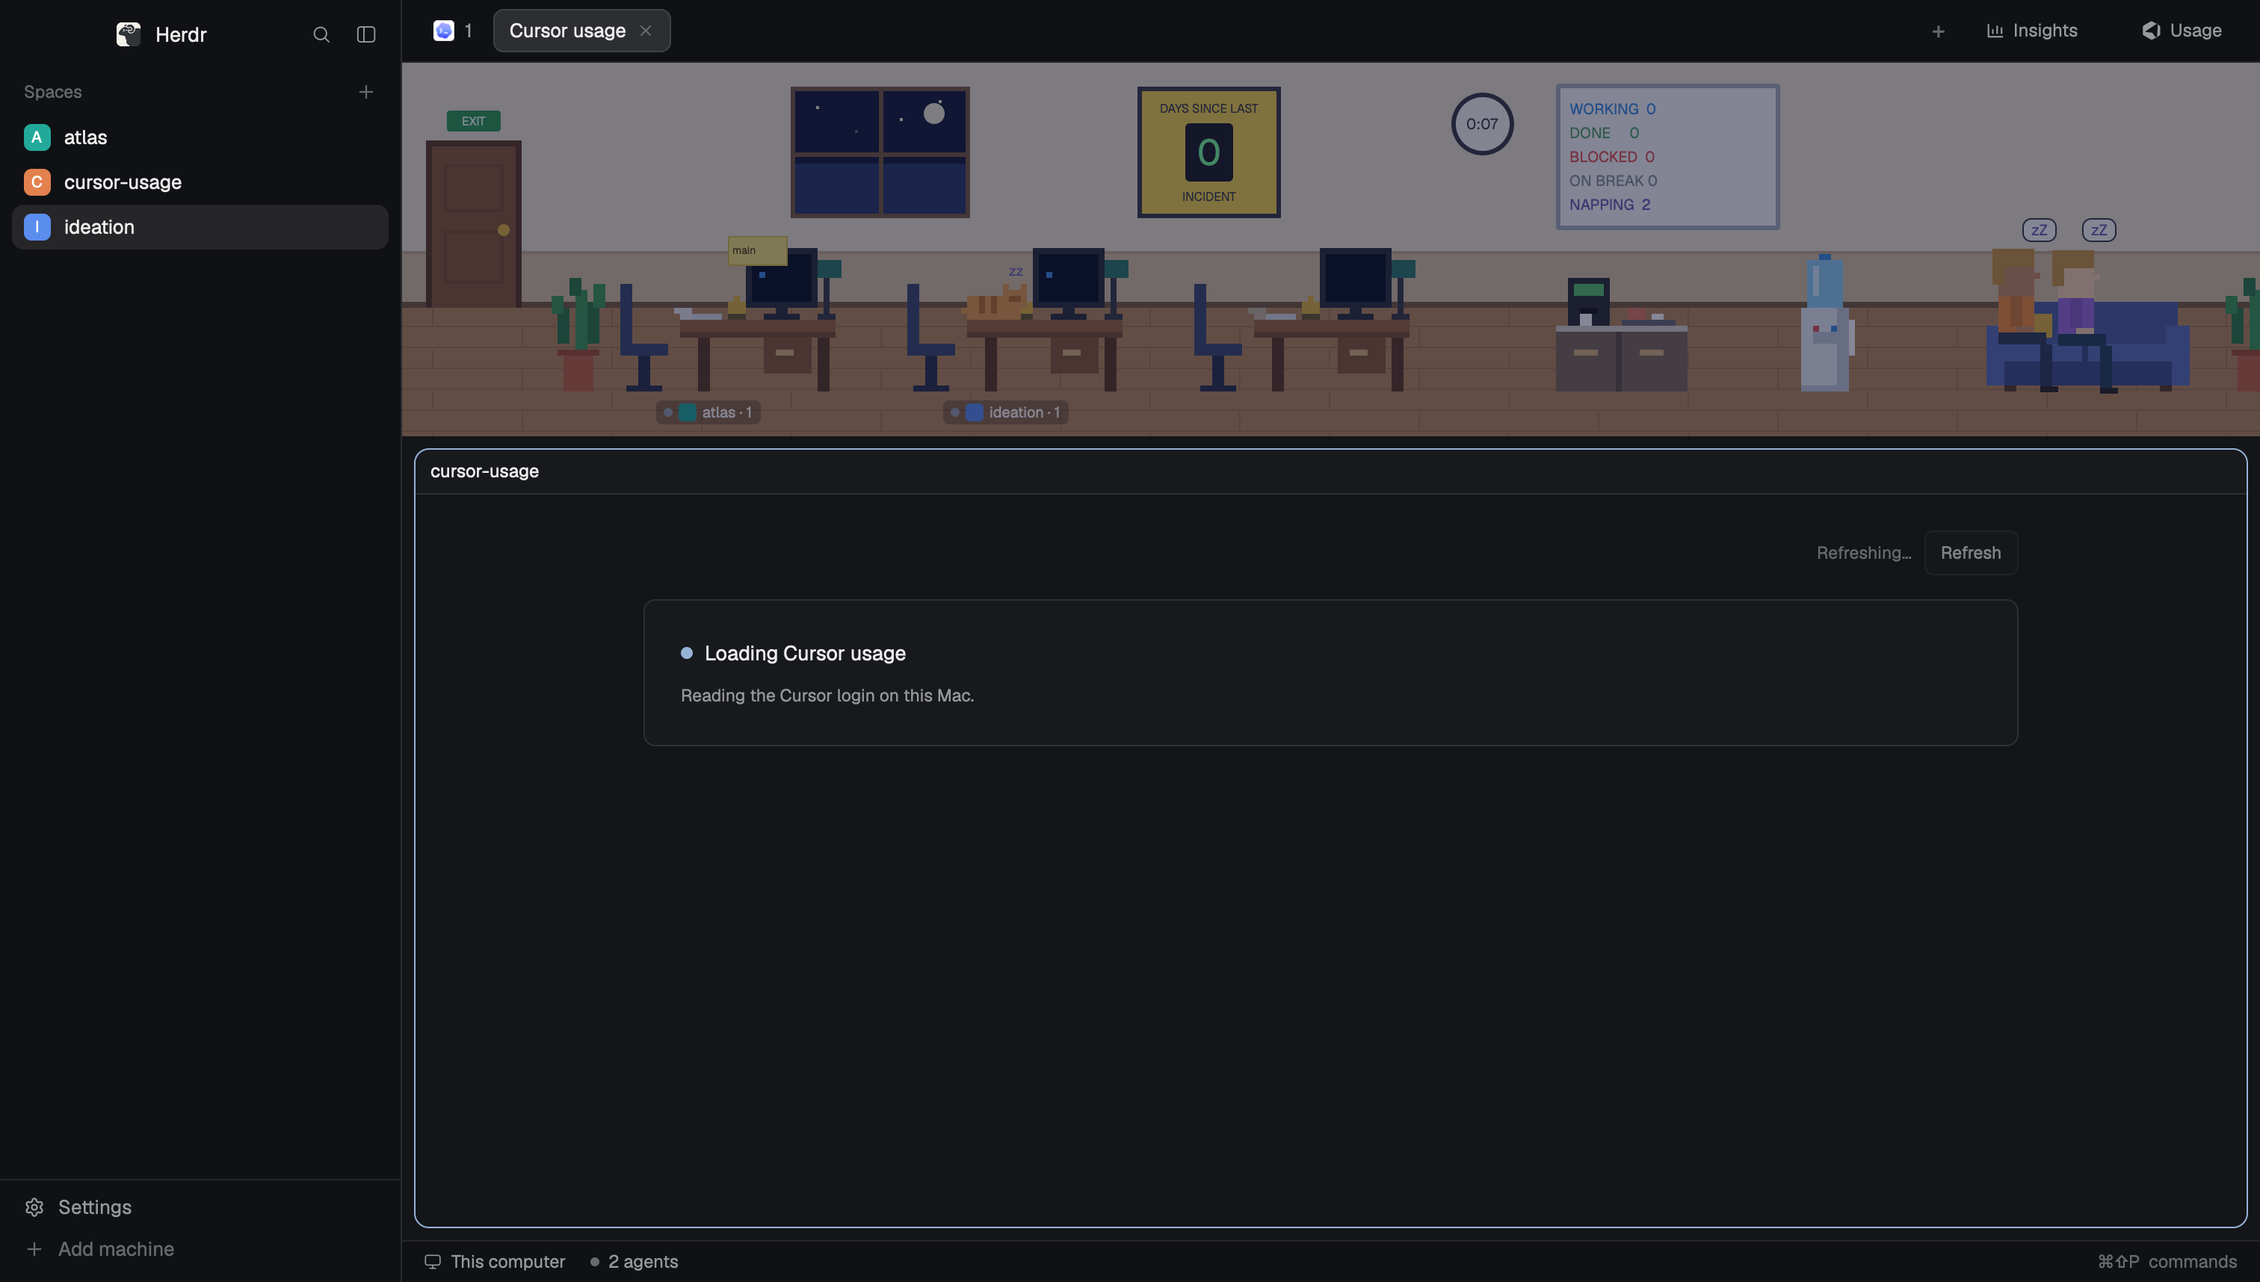
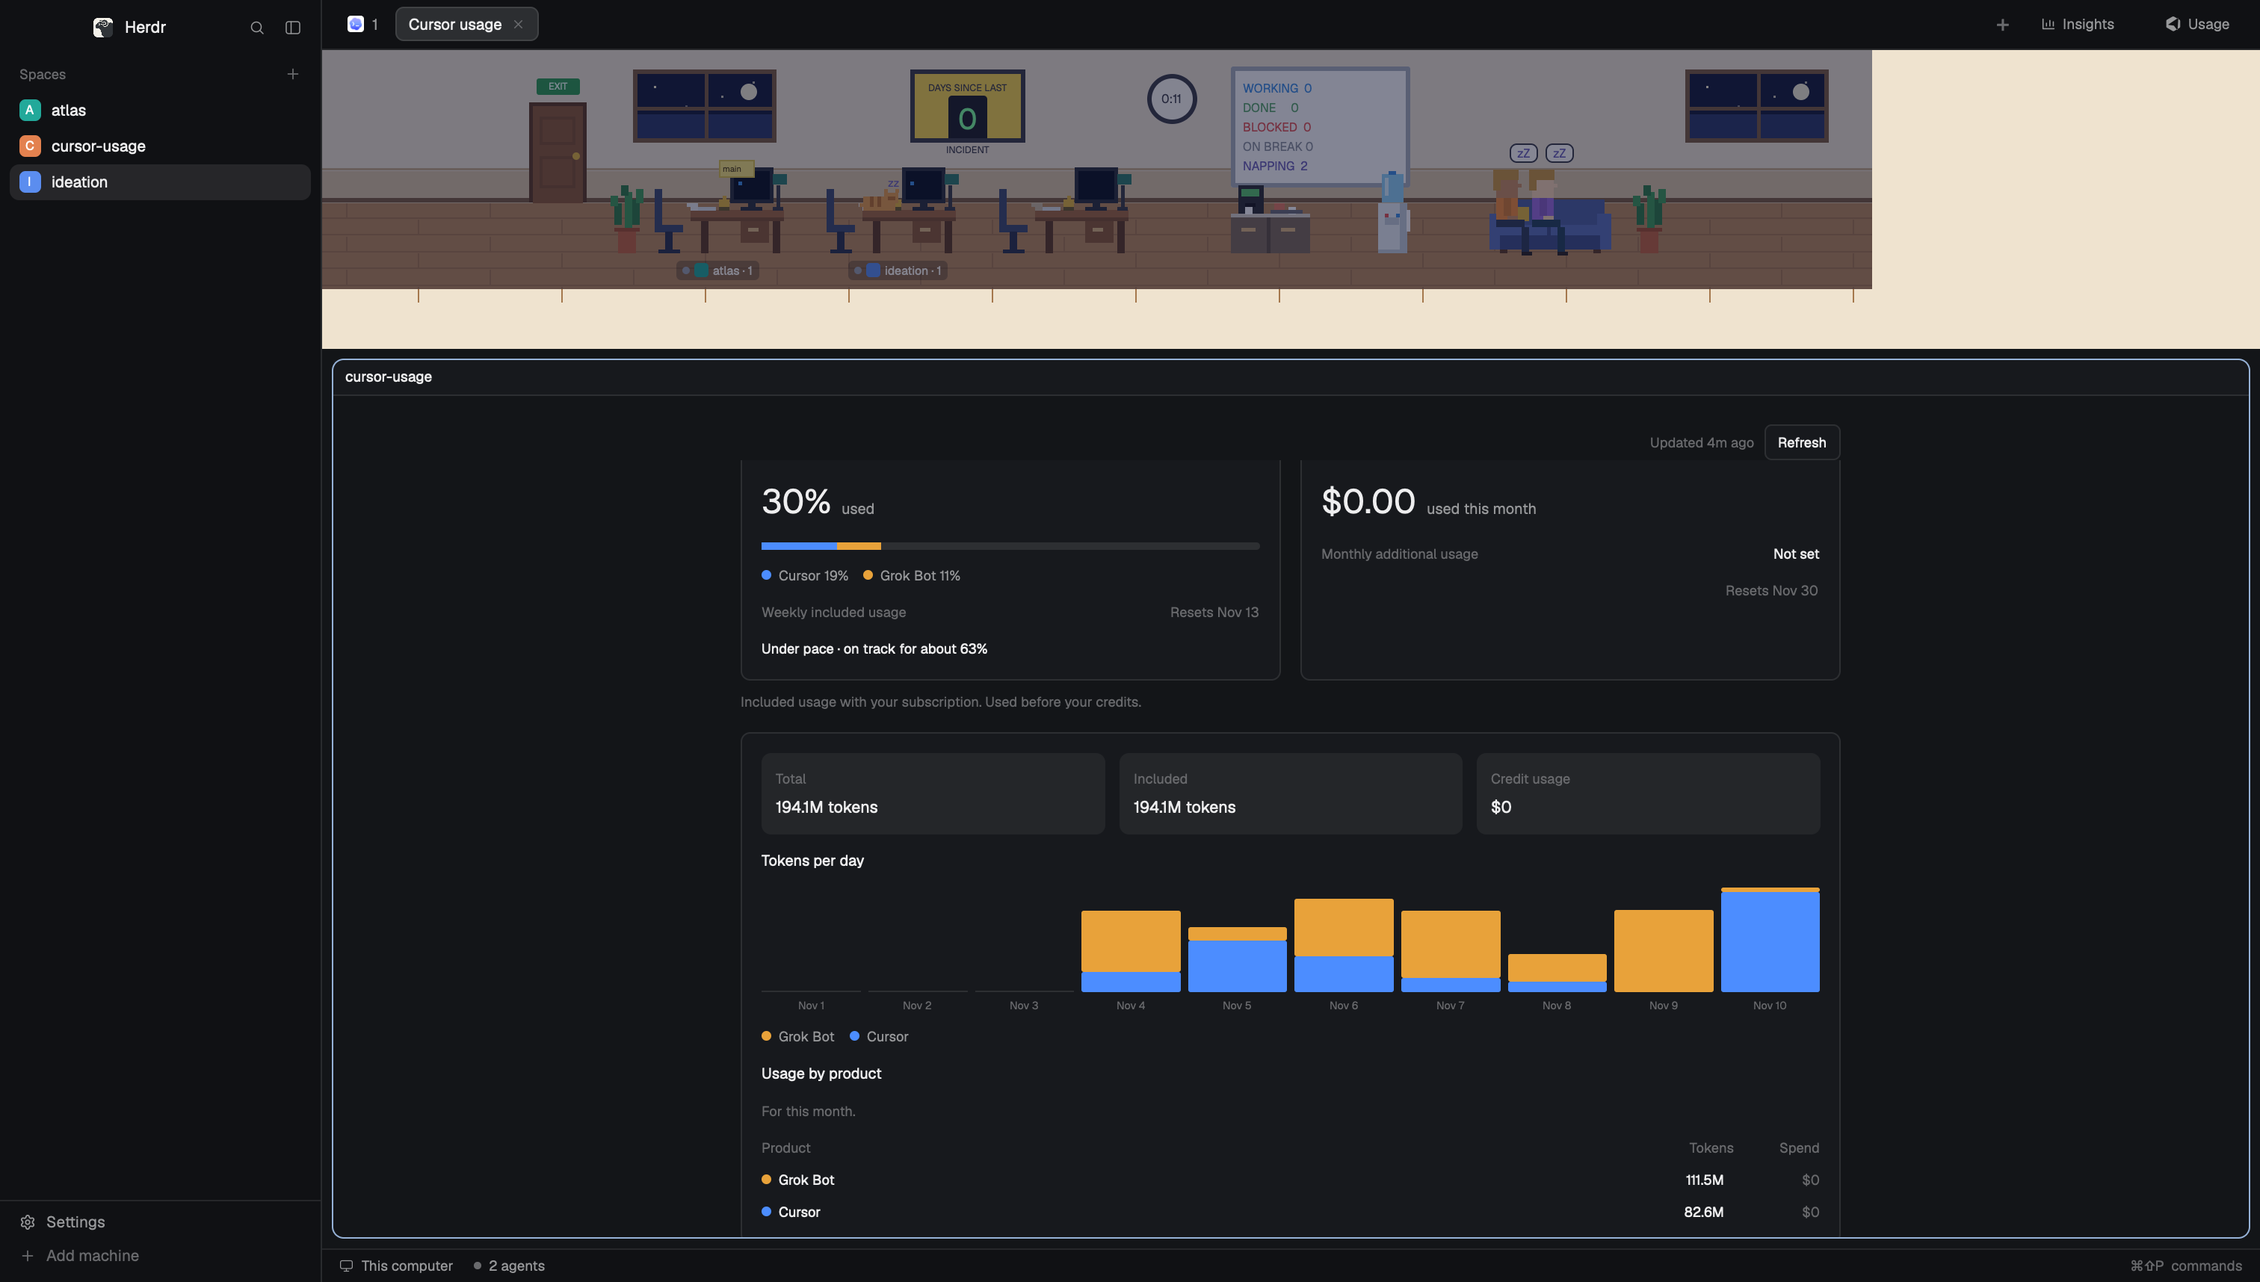
Describe the dashboard another agent can rebuild.
The recipe matches the weekly cards, token chart, and line edits, and the preview is that screen.

diff --git a/RECIPE.md b/RECIPE.md
@@ -1,53 +1,70 @@
 # Cursor usage
 
-A toolbar button labeled Cursor usage opens one dashboard tab. The page is a narrow column of cards on the theme canvas: how much of the Cursor allowance is used, when it resets, and whether the current pace holds.
+A **Usage** button in the tab strip opens one dashboard of the Cursor quota already signed in on this Mac: the weekly included percent split by product, this month's balance, tokens per day, and a year of AI line edits. This is a piece you add to the current layout, not a whole window.
 
 ![Cursor usage](preview.png)
 
+This file is the brief: enough to build Cursor usage from an empty folder. The files next to it are one build of it. If they don't work on your Herdr, or you want it different, build it again from here.
+
 ## What you see
 
-- **Toolbar button** (128px, in the tab strip, chrome background, 12px muted label "Cursor usage"). Hover uses the theme hover color.
-- **Dashboard** (scrollable canvas, column max width 720, padding 24, or 16 when narrower than 620). Cards are surface, 1px border, radius 8, padding 16. Spacing is 4, 8, 12, 16, 24. Every color comes from the Herdr theme.
-- **Header.** "Cursor usage" at 20px semibold. On the right, dim status text ("Updated just now", "Refreshing…", or the error in the blocked color) and an outline Refresh button, 30px tall, radius 6.
-- **Hero card.** Uppercase 9.5px label: `INCLUDED THIS WEEK`, `INCLUDED THIS MONTH`, `INCLUDED USAGE`, `SPEND THIS CYCLE`, `ON-DEMAND USAGE`, or `INCLUDED REQUESTS`. The value is 28px: `20%`, `$82`, or `120 / 500`. Under it, one 12.5px muted sentence such as `20% used · 80% left · $16 left`. A 6px rounded track in the border color, filled with foreground. At a projected 80% or above, the value and the fill use the blocked color.
-- **Reset and pace,** inside the hero, 11.5px. Reset is dim (`Resets Tue, Nov 18, 4:00 PM · 3d 12h`). The pace sentence is foreground, or blocked when this pace hits the limit before reset.
-- **Stat card.** Cells labeled `LEFT`, `PACE`, and `ROOM`. Empty cells are omitted. Pace is `under`, `on pace`, `ahead`, or `used up`. Room is `23% per day` (or per hour, or per minute).
-- **Detail card,** only when there is something to show. Cells for `AUTO`, `API`, and `TOKENS`. A dim line under them: `Last commit 80% AI-generated`.
-- **Activity card.** Label `ACTIVITY · 14 DAYS`. Up to fourteen bars, 4px wide, gap 4, height scaled to that window, drawn in foreground from the bottom of a 48px row.
-- **Account,** dim 11.5px under the cards: `Premium · ada@example.com · On this Mac since Jan 2026`.
-- **Empty and error.** No data yet: one card, "Loading Cursor usage" or "Cursor usage is unavailable", with a primary Retry button on the error.
+- **Toolbar button.** An 88px block on the right of the tab strip, chrome background, 1px bottom border in the border color. Inside it, a 26px row, 8px horizontal padding, 5px gap, radius 6: the Cursor mark at 15px (a cube with the pointer cut out, tinted with the text color) and the word **Usage** at 12px in the muted color. Hover uses the theme hover background and the foreground text.
+- **Dashboard.** The pane is the theme canvas. One column, max width 920, padding 24, or 16 when the pane is narrower than 620. Cards are surface, 1px border, radius 8, padding 16, with 12px inside a card and 16px between cards. Text is foreground; secondary lines are dim or muted. There is no page title.
+- **Header,** right-aligned above the cards. Dim 11.5px status: `Updated just now`, `Updated 4m ago`, `Refreshing…`, or the error in the blocked color. An outline **Refresh** button, 30px tall, radius 6, 11.5px medium.
+- **Weekly row,** when Cursor returns weekly included usage. Two cards side by side, gap 16, each at least 280px wide; they wrap when the column is narrow.
+  - **Included.** The plan name at 11.5px dim (`Premium`). The percent at 28px semibold (`30%`) with `used` at 12.5px muted. A 6px rounded track in the border color, filled left to right by product: Cursor `#4c8dff`, Grok Bot and Grok `#e8a23a`, API and Other `#8b9bb4`. An 8px dot and `Cursor 19%` for each product, 11.5px muted. Under that, `Weekly included usage` on the left and `Resets Nov 13` on the right, both 11.5px dim. The pace sentence is 11.5px foreground, or the blocked color when this pace runs out before reset.
+  - **Balance.** `Account balance` at 11.5px dim. `$0.00` at 28px semibold with `used this month` at 12.5px muted. `Monthly additional usage` on the left and `Not set` (or a dollar limit) on the right. `Resets Nov 30` at the right, 11.5px dim.
+- **Footnote,** 11.5px dim, under that row: `Included usage with your subscription. Used before your credits.`
+- **Tokens,** when the month has daily points. Three tiles on the raised color, radius 8, padding 12, min width 120: `Total` / `194.1M tokens`, `Included` / `194.1M tokens`, `Credit usage` / `$0`. Then `Tokens per day` at 12.5px medium. A row of columns, 88px tall, stacked with Grok Bot on top of Cursor; a day with nothing is a 1px border line. Day labels are 9px (`Nov 4`). Every day is labeled when the month so far has 14 days or fewer; otherwise the 1st, every 5th, and the last day. A product legend, then `Usage by product` and `For this month.` A table: `Product`, `Tokens` (88px, right), `Spend` (72px, right), most tokens first.
+- **Line edits,** when Cursor returns daily metrics, or one local day of suggested lines if it does not. The title is `AI line edits`, `Tab completions`, or `Agent lines of code`, 11.5px dim, with the total at 28px semibold. On the right, `All` / `Tab` / `Agent`: 22px tall, radius 6, the selected one on the card color with a border, the others on the raised color. A year of 10px squares, radius 2, 3px apart, Sunday-start UTC weeks ending today. Empty days use the border color. Days with edits use `#1a3f66`, `#245b96`, `#3b82f6`, `#8eb6ff` from least to most. Month names sit above the first week of that month, 9px dim. Four cells: `MOST ACTIVE MONTH`, `MOST ACTIVE DAY`, `LONGEST STREAK`, `CURRENT STREAK`. A `Less` / `More` scale. When a recent commit has a percent, a dim line: `Last commit 80% AI-generated`.
+- **Other plans.** With no weekly included usage, one hero card instead of the weekly row. An uppercase 9.5px label: `INCLUDED THIS WEEK`, `INCLUDED THIS MONTH`, `INCLUDED USAGE`, `SPEND THIS CYCLE`, `ON-DEMAND USAGE`, or `INCLUDED REQUESTS`. The value is 28px (`20%`, `$82`, or `120 / 500`). An 8px track, filled in foreground, with a 1px tick at how far the cycle has elapsed. Dim reset text (`Resets Tue, Nov 18, 4:00 PM · 3d 12h · 23% per day still open`) and the pace sentence. The plan, email, and `on this Mac since Jan 2026` sit on the right of the label, 11.5px dim, truncated. A second card shows `AUTO`, `API`, and `TOKENS` when those numbers exist.
+- **Empty and error.** No data yet: one card, an 8px accent dot, `Loading Cursor usage`, and `Reading the Cursor login on this Mac.` A failure with nothing to show uses the blocked color on the border and dot, title `Cursor usage is unavailable`, the error as the body, and a primary **Retry** button.
 
 ## How it behaves
 
-- The toolbar click focuses an existing Cursor usage pane in the active space, or opens `tab.new` with name "Cursor usage" and mod `cursor-usage`.
-- The dashboard reads on show, then every 5 minutes, and when Refresh or Retry is clicked. A read already in flight is left alone.
-- One meter, chosen the same way as the cursor-usage menu bar:
-  - Included-usage plans: `planUsage.totalPercentUsed`, else `autoPercentUsed`.
-  - Team or usage-based spend: dollars for the signed-in email from `get-team-spend`.
+- The toolbar click focuses a Cursor usage pane already open in the active space. If another pane on that tab is zoomed, it zooms that one back first. Otherwise it runs `tab.new` with name `Cursor usage` and mod `cursor-usage`.
+- The dashboard reads on show, then every 5 minutes, and when Refresh or Retry is clicked. A read already in flight is left alone. The toolbar button does not read.
+- Hovering the button changes its background. Hovering a token column or a line-edit square shows a tooltip (`Nov 6 · Grok Bot 12.4M · Cursor 8.1M`, or `Nov 6 · 318 lines`, or `Nov 2 · No tokens`). All, Tab, and Agent only change which series the heatmap counts. Nothing else moves. There are no agent-status colors.
+- One meter, in this order:
+  - Weekly included usage, when `usage-status` says the week is metered and has a budget. The headline percent is the used cents over the budget, floored. Anything above 0 and below 1 shows as `1`. Product percents are that integer split by each product's cents, largest remainder first, then listed largest percent first.
+  - Otherwise included usage from the current period (`totalPercentUsed`, else `autoPercentUsed`).
+  - Otherwise team or usage-based spend for the signed-in email.
   - Otherwise included requests from `GET /api/usage` (`gpt-4` is the aggregate).
-- The bar width is the percent used now. The blocked color uses the projected end-of-cycle percent once 10% of the window has passed; before that it uses the percent used now.
-- A failed refresh keeps the last cards and puts the message in the header. The first failure, with nothing to show, replaces the hero with the error card.
-- No agent status colors. The mod does not depend on an agent running.
+- Pace is the only number the mod calculates. It waits until 10% of the window has passed. Under 0.95 is `Under pace · on track for about 63%`. Under 1.2 is `On pace`. At 1.2 or above is `Ahead of pace · about 2d before reset`, in the blocked color. `Used up` is the blocked color too. A high projection by itself does not change the color.
+- A failed refresh keeps the last cards and puts the message beside Refresh. The first failure, with nothing to show, replaces the page with the error card.
+- Missing sign-in says `No access token — sign in to Cursor`. A denied Keychain prompt says `Keychain access to Cursor Safe Storage was denied — allow it, then Refresh`. A missing Cursor database says `Cursor DB not found`.
 
 ## Built from
 
-- One mod, `mods/cursor-usage`. `mod.json` is `{ "place": "none", "title": "Cursor usage" }`. The same mod draws the toolbar when `props.mode` is `"toolbar"`.
-- `herdr`: `appHome`, `exec`, `panes`, `props`, `run`, `settings`, `spaces`, `theme`. Commands: `tab.new`, `pane.focus`, `pane.zoom`.
-- Program: `python3 mods/cursor-usage/cursor_usage.py`, timeout 90 seconds. If `python3` cannot be started, the same script is run through the login shell. The script runs `sqlite3` (via Python), `security`, and `curl`.
-- Install: `python3 scripts/install.py` copies the mod and clones the current layout. `python3 scripts/uninstall.py` switches back and deletes that clone.
+- **One mod**, `mods/cursor-usage/`. `mod.json` is `{ "place": "none", "title": "Cursor usage" }`. The same view draws the toolbar when `props.mode` is `"toolbar"`, and returns before any fetch. There is no `layouts/` folder and no `keys.json`.
+- **Files:** `main.js` (the view), `ui.js` (the card, button, and type scale), `cursor.svg` (the mark, `fill-rule="evenodd"` so the pointer is a hole), `cursor_usage.py` (the collector).
+- **To show the button,** clone the layout that is on screen and add one block beside its single `tabs` mod. If that tabs block is not already in a row, turn it into a non-resizable row and keep the old tabs content in a weight-1 child:
+
+  ```json
+  { "id": "cursor-usage-toolbar-button", "type": "block", "size": { "px": 88 },
+    "content": { "mod": "cursor-usage", "props": { "mode": "toolbar" } } }
+  ```
+
+  `python3 scripts/install.py` does that on a clone and records the file hashes. `python3 scripts/uninstall.py` switches back and deletes the clone only when that clone was not edited afterward.
+- **`herdr`:** `appHome`, `exec`, `panes`, `props`, `run`, `settings`, `spaces`, `theme`. Commands: `tab.new`, `pane.focus`, `pane.zoom`. Colors come from `theme()`. The column padding uses `settings().zoom`.
+- **Program:** `python3 mods/cursor-usage/cursor_usage.py`, timeout 90 seconds. If `python3` cannot be started, the same script runs through the login shell. The script uses Python's `sqlite3`, `security`, and `curl`. It prints one JSON object and exits 0 even on a Cursor error.
+- **What it reads.** Cursor's `state.vscdb` ItemTable and, when the token is sealed, the Keychain item **Cursor Safe Storage**. It then calls only `https://www.cursor.com`: `GET /api/usage`, `GET /api/auth/stripe`, `GET /api/dashboard/v2/usage-status?scope=user`, and POST `get-current-period-usage`, `get-plan-info`, `get-team-spend`, `get-user-analytics`, and `v2/query-daily-usage`. The cookie jar is mode `0600` and is deleted when the request finishes. The token is not printed.
+- **Line edits.** `all` and `agent` are accepted lines added plus deleted. `tab` is accepted completions, a count, not lines. The heatmap colors only days the API returned. If analytics is empty, one local fallback uses `tabSuggestedLines` and `composerSuggestedLines` from `aiCodeTracking.dailyStats.v1.5.YYYY-MM-DD`. The token chart is the dashboard API, not the local database.
 
 ## Watch out
 
-- macOS only. The script expects Cursor's `state.vscdb` and the Keychain item **Cursor Safe Storage**. The first live fetch can prompt. Allowing it always lets `/usr/bin/security` read that item later.
-- The mod calls `https://www.cursor.com`, runs programs, and reads files outside its folder (the Cursor database and the Keychain). It does not print the token. The cookie jar is mode `0600` and is deleted when the request finishes.
-- `"place": "none"` means Herdr will not show it until a layout adds the toolbar block. Do not edit a layout owned by another installer. Insights records a hash of `office-insights.json`; changing that file makes Insights uninstall refuse it.
-- Shipped layouts are read-only. The installer clones the layout that is on screen and edits only the clone.
-- `herdr-app check` renders the loading card. It does not call Cursor.
+- macOS only. The first live fetch can prompt for Keychain access. Allowing it always lets `/usr/bin/security` read **Cursor Safe Storage** later. The mod reaches the network, runs programs, and reads files outside its folder. Say so before adding it.
+- `"place": "none"` means Herdr will not show it until a layout adds the toolbar block. Shipped layouts are read-only. Do not edit a layout another installer owns: Insights records a hash of `office-insights.json`, and changing that file makes its uninstall refuse.
+- Do not invent a product split when weekly included usage is absent. Fall back to the single hero. Do not draw empty days the API did not return, except the token chart, which fills each UTC day from the month's start through today.
+- The email is on the report and on the fallback hero. The weekly cards do not print it.
+- `herdr-app check` renders the loading card. It does not call Cursor or open the Keychain. A check writes `jsconfig.json` and `gpui-kit.d.ts` into the mod folder; those are generated and are not part of the mod.
+- The token columns are a vertical stack, Grok Bot first. Absolute left and right did not stretch the segments. Chaining `.children()` after `.child()` replaces the earlier children, so build one children array.
+- The SVG hole depends on `fill-rule="evenodd"`. A solid cube is not the Cursor mark.
 
 ## Done when
 
 - `python3 -m unittest tests/cursor_usage_test.py tests/layout_test.py` passes.
 - `herdr-app check mods/cursor-usage` passes.
-- `python3 scripts/install.py` leaves the previous layout file byte-for-byte unchanged and shows the button on a new layout.
-- Opening Cursor usage shows the hero card, and Refresh runs again.
+- `python3 scripts/install.py` leaves the previous layout file byte-for-byte unchanged, shows **Usage** with the Cursor mark, and opens a dashboard of this Mac's own numbers.
+- Refresh runs again. A missing token shows `No access token — sign in to Cursor` and Retry.
 - `python3 scripts/uninstall.py` returns to the previous layout and removes `mods/cursor-usage`. Installing a second time works.

diff --git a/README.md b/README.md
@@ -1,6 +1,6 @@
 # Cursor usage
 
-A [Herdr](https://herdr.dev) mod that shows the Cursor quota already signed in on this Mac. A **Cursor usage** button in the tab strip opens one dashboard: the included percentage, request quota, or on-demand spend, plus when it resets and whether this pace holds.
+A [Herdr](https://herdr.dev) mod that shows the Cursor quota already signed in on this Mac. A **Usage** button in the tab strip opens one dashboard: the weekly included percent, this month's balance, tokens per day, and AI line edits. Plans without weekly included usage get the included percentage, request quota, or on-demand spend instead.
 
 The numbers come from the same local session and `cursor.com` dashboard calls as [cursor-usage](https://github.com/edison-cc/cursor-usage). Codex and Claude are not part of this mod.
 
